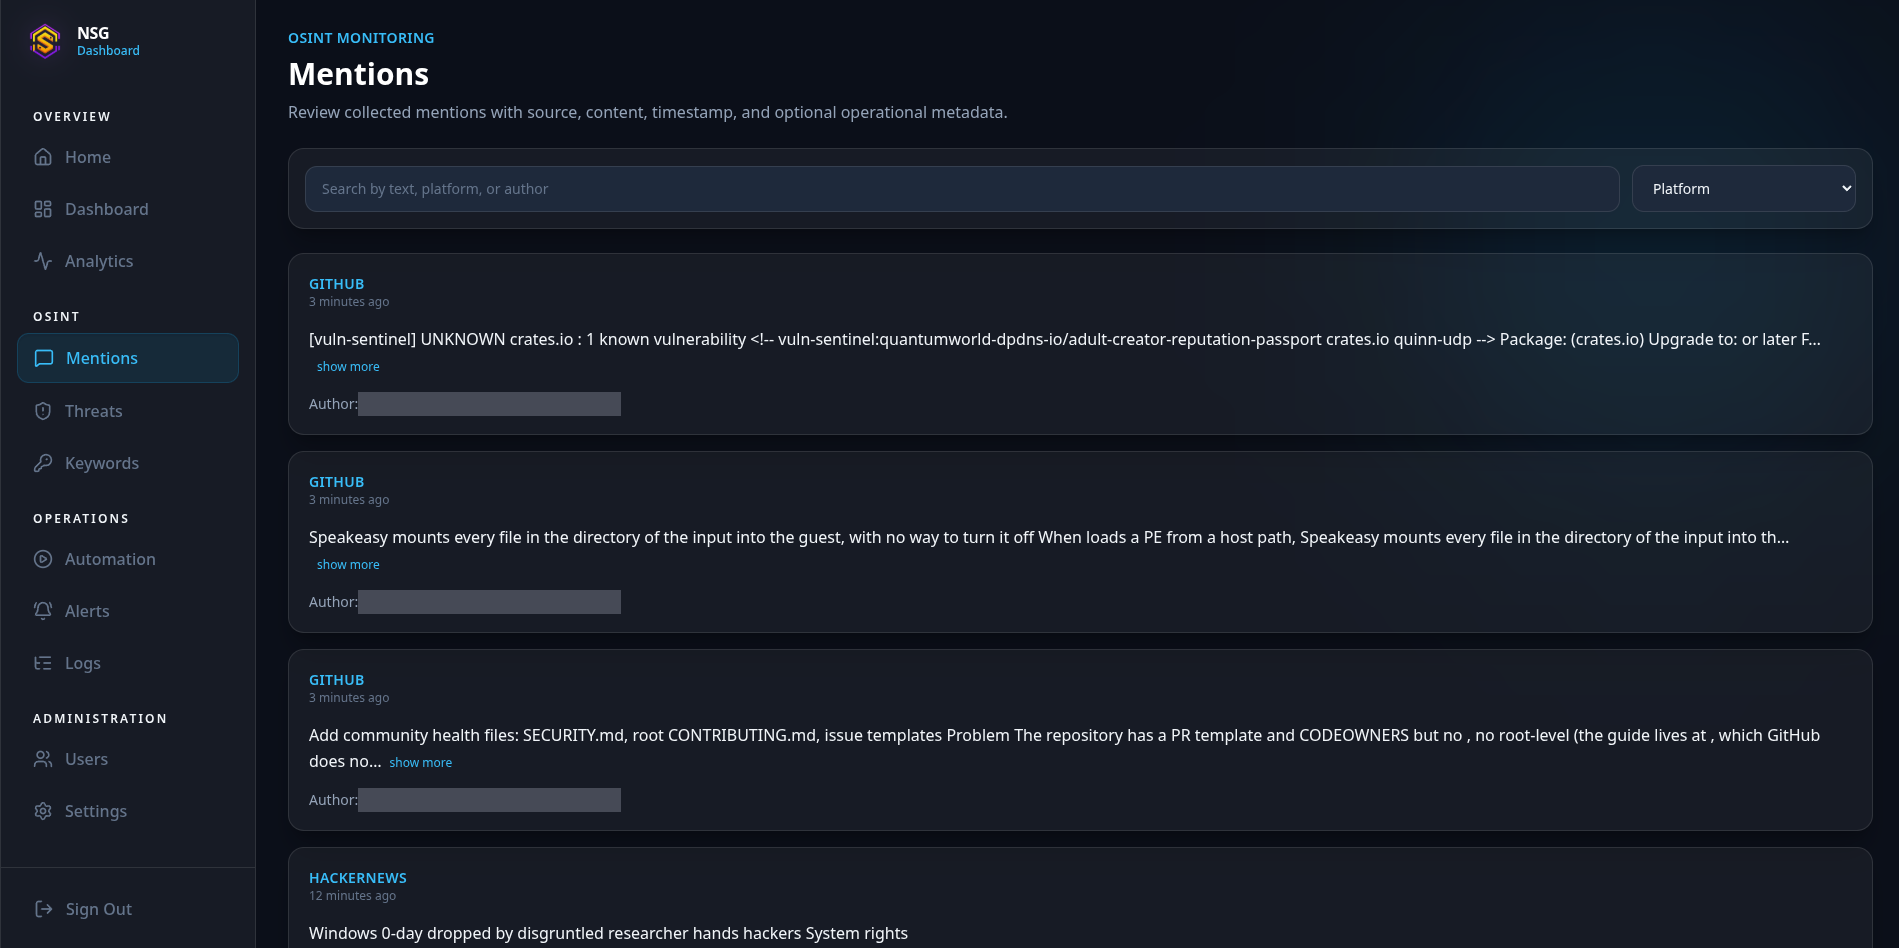
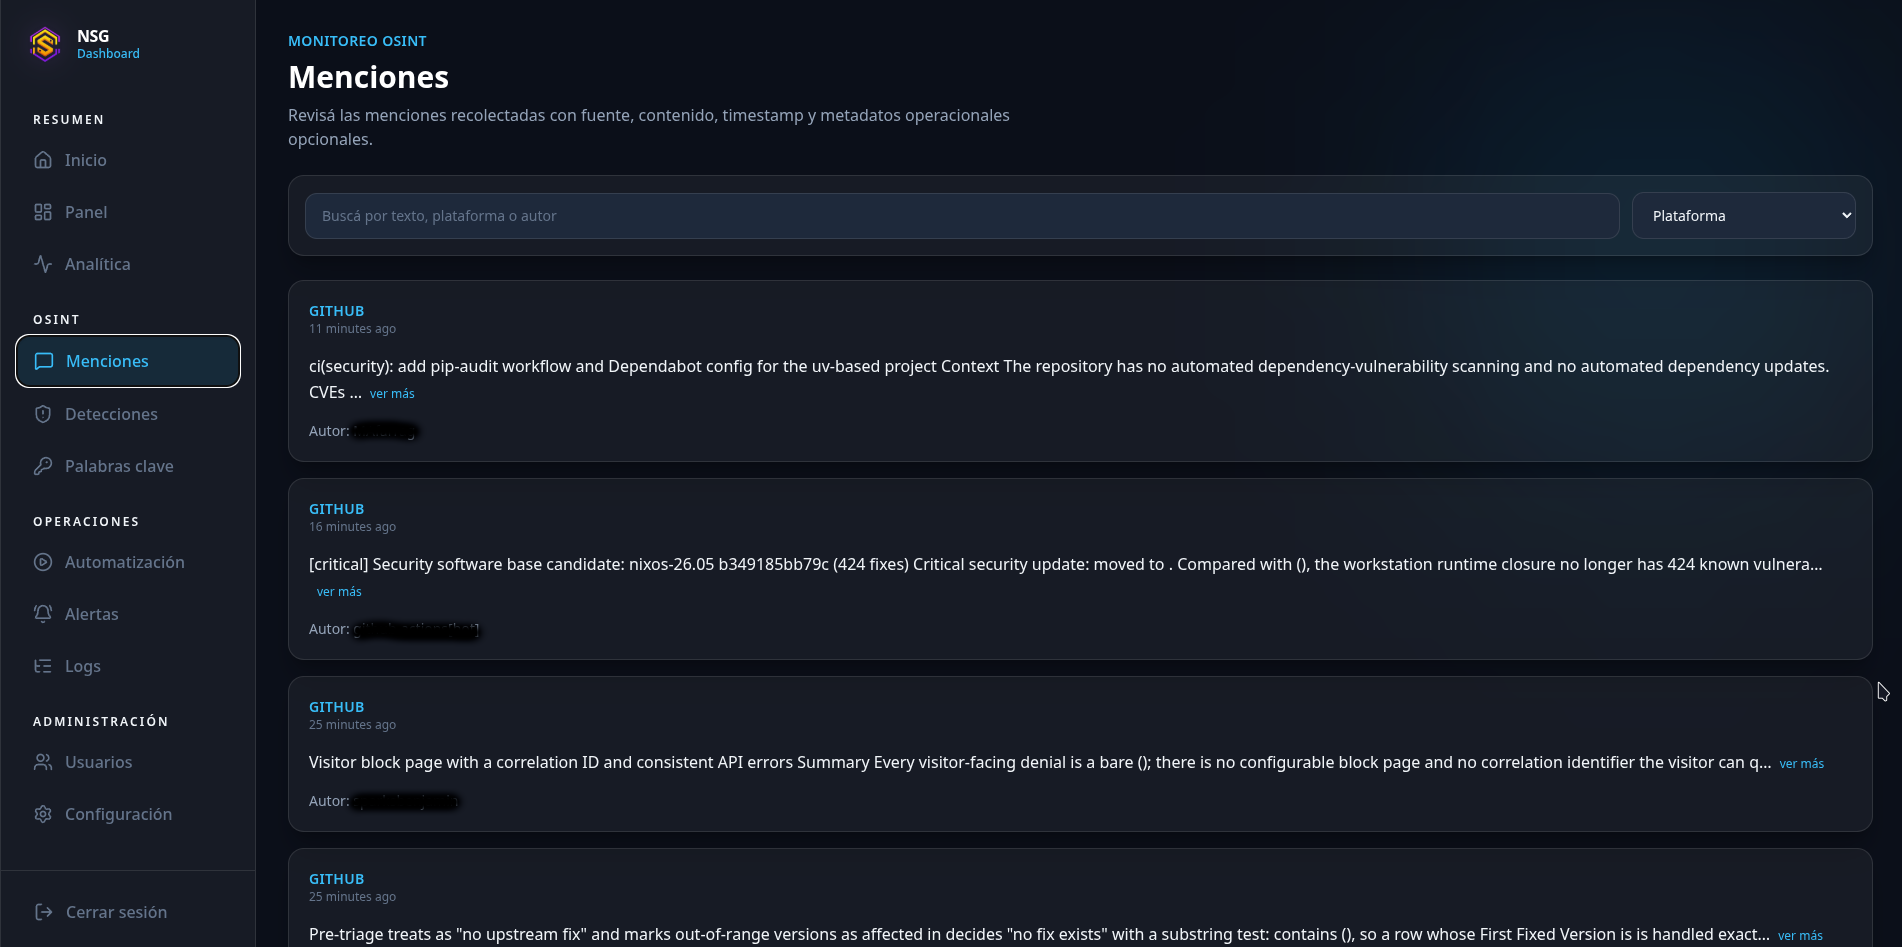
docs(audit): add REV77 A7 evidence (functional run, suites, captures)
Run, suite and the 12 Table 23 captures on develop 9f24de2. The
captures checklist describes the new images and records the REV77
changes in its own section.

diff --git a/nexus-security-group/audit/rev76_verificacion/capturas_checklist.md b/nexus-security-group/audit/rev76_verificacion/capturas_checklist.md
@@ -1,6 +1,6 @@
 # Corrida funcional y capturas de la Tabla 23
 
-Fecha: 12/11/2026. Base: rama `feat/corrida-funcional`, que sale de `develop` d2446d9.
+Fecha: 12/11/2026. Base: rama `feat/corrida-funcional`, que sale de `develop` d2446d9. Actualizado el 17/11/2026 para la REV77 (sección «Cambios REV77»).
 
 Este archivo explica cómo registrar la corrida funcional breve con `scripts/functional_run.sh` y enumera las 12 capturas de la Tabla 23 (vistas de la interfaz). La suite de pruebas, la corrida y las capturas se hacen sobre **el mismo commit**, con el sistema levantado, y los resultados se guardan en esta carpeta sin editarlos.
 
@@ -38,21 +38,32 @@ La columna «Matriz» remite a la fila de `matriz_conformidad.md`. Si la fila es
 
 | Fila | Vista | URL | Permiso en el prototipo | Estado previo necesario | Archivo | Matriz | Hecha | Observaciones |
 |---|---|---|---|---|---|---|---|---|
-| T23-01 | Ingreso | `http://localhost/login` | Pública | Sesión cerrada | `T23-01_ingreso.png` | R8B-67, Implementada | [x] | 13/11/2026. Sesión cerrada; formulario vacío (los campos muestran sus textos de ejemplo); sin datos personales. |
-| T23-02 | Inicio | `http://localhost/home` | Autenticado | Sesión iniciada | `T23-02_inicio.png` | R8B-68, Implementada | [x] | 13/11/2026. Sesión de `admin` (rol Admin, origen Bootstrap, 18 permisos); accesos rápidos a todas las vistas; sin datos personales. |
-| T23-03 | Panel | `http://localhost/dashboard` | `dashboard:read` | Al menos una ejecución terminada | `T23-03_panel.png` | R8B-69, Parcial | [x] | 13/11/2026, actualizado 14:02:39 (antes de E10). 369 detecciones, todas pendientes; 66 avisos sin reconocer; 10 términos activos; 9 registros de ejecución; actividad 6. Sin datos personales. |
-| T23-04 | Menciones | `http://localhost/mentions` | `mentions:read` | Menciones persistidas en la corrida | `T23-04_menciones.png` | R8B-70, Parcial | [x] | 13/11/2026. Menciones de GitHub y Hacker News de la corrida. **Editada:** se taparon los nombres de usuario del campo «Author» (datos personales según §7.8.4 y Tabla A3; minimización); el resto de la imagen no cambió. El texto de las menciones se muestra completo, como lo ve el analista durante la revisión (§7.8.4). El original se conserva fuera del repositorio. |
-| T23-05 | Detecciones | `http://localhost/threats` | `threats:read` | Al menos una detección, si la corrida la produjo | `T23-05_detecciones.png` | R8B-71, Implementada | [x] | 13/11/2026. Detecciones `general` de la corrida, todas `Pending`, con severidad, confianza, riesgo y mención relacionada; no muestra autoría. Sin datos personales. |
-| T23-06 | Avisos | `http://localhost/alerts` | `alerts:read` | Al menos un aviso, si la corrida lo produjo | `T23-06_avisos.png` | R8B-72, Parcial | [x] | 13/11/2026. Avisos `high` creados y enviados a las 14:00:56, sin reconocer, canales slack, email y #security-alerts. Figuran `Sent` aunque se generaron antes de definir `ALERT_EMAIL_TO` (correo rebotado; ver Notas de `escenarios.md`): es la limitación declarada de `delivery_status`. Sin datos personales. |
-| T23-07 | Términos | `http://localhost/keywords` | `keywords:read` | Los términos iniciales cargados | `T23-07_terminos.png` | R8B-73, Implementada | [x] | 13/11/2026. Los 10 términos iniciales activos, con categoría, prioridad, coincidencias y última coincidencia de la corrida. Sin datos personales. |
-| T23-08 | Automatización | `http://localhost/automation` | `workflows:read` | Al menos una ejecución registrada | `T23-08_automatizacion.png` | R8B-74, Implementada | [x] | 13/11/2026. Última ejecución en `success` (150 menciones recolectadas, 47 procesadas, 47 detecciones, 20 avisos) e historial; la fila con 41 detecciones y 15 avisos es la de E08. La duración figura en 0 s en todas: `started_at` se graba al final del flujo (hallazgo para B7b). Sin datos personales. |
-| T23-09 | Registros | `http://localhost/logs` | `logs:read` | Ejecuciones de la corrida registradas | `T23-09_registros.png` | R8B-75, Parcial | [x] | 13/11/2026. Pestaña «Executions»: ejecuciones de la corrida en `success` con contadores, horas y duración 0 s (inicio y fin iguales; ver T23-08). La de las 13:48:30 es E08 (41 detecciones y 15 avisos informados, 0 guardados). No muestra estado por fuente (limitación declarada). Sin datos personales; la pestaña «User Activity» no se capturó. |
-| T23-10 | Indicadores | `http://localhost/analytics` | `metrics:read` | Datos dentro de la ventana por defecto (30 días) | `T23-10_indicadores.png` | R8B-76, Parcial | [x] | 13/11/2026. Vista desplazada hacia abajo (no se ve el título): 410 menciones, 66 avisos, 369 detecciones, sentimiento medio 0,05; menciones en el tiempo y sentimiento desde el 14/10 (fecha de publicación) y distribución por plataforma (GitHub 75 %, Hacker News 20 %, Exploit-DB 5 %). Sin datos personales. |
-| T23-11 | Usuarios | `http://localhost/users` | `users:read` | Al menos el usuario administrador | `T23-11_usuarios.png` | R8B-77, Implementada | [x] | 13/11/2026. El directorio dice «No users registered yet.»: el administrador de la sesión es el de arranque (origen Bootstrap, definido por configuración) y no figura como usuario registrado. No se cumple el estado previo «al menos el usuario administrador»; se toma igual, sin cargar datos (ver §3). Roles de sistema Admin y Analyst, sin roles propios. Sin datos personales. |
-| T23-12 | Preferencias | `http://localhost/settings` | Autenticado | Sesión iniciada | `T23-12_preferencias.png` | R8B-78, Implementada | [x] | 13/11/2026, 14:31. Perfil `admin`, cambio de contraseña con los campos vacíos, tema oscuro e idioma inglés. Sin datos personales. |
+| T23-01 | Ingreso | `http://localhost/login` | Pública | Sesión cerrada | `T23-01_ingreso.png` | R8B-67, Implementada | [x] | 17/11/2026, 13:27 (REV77). Sesión cerrada; formulario vacío (los campos muestran sus textos de ejemplo), en español; sin datos personales. En el borde inferior asoman unos píxeles de la barra del escritorio. |
+| T23-02 | Inicio | `http://localhost/home` | Autenticado | Sesión iniciada | `T23-02_inicio.png` | R8B-68, Implementada | [x] | 17/11/2026 (REV77). Sesión de `administrador` (rol Admin, origen «Base de datos», 18 permisos); accesos rápidos a todas las vistas. Sin datos personales. |
+| T23-03 | Panel | `http://localhost/dashboard` | `dashboard:read` | Al menos una ejecución terminada | `T23-03_panel.png` | R8B-69, Parcial | [x] | 17/11/2026 (REV77). 3902 detecciones, 3900 pendientes; 551 avisos, 549 sin reconocer; 10 palabras clave activas; 109 registros de ejecución; actividad 38. Sin datos personales. |
+| T23-04 | Menciones | `http://localhost/mentions` | `mentions:read` | Menciones persistidas en la corrida | `T23-04_menciones.png` | R8B-70, Parcial | [x] | 17/11/2026 (REV77). Menciones de la corrida. **Editada:** se taparon los nombres de usuario de la columna de autor (datos personales según §7.8.4 y Tabla A3; minimización); el resto de la imagen no cambió. El texto de las menciones se muestra completo, como lo ve el analista durante la revisión (§7.8.4). El original sin editar del 17/11 no se conservó; el de `originales/` es el de la REV76 (13/11). |
+| T23-05 | Detecciones | `http://localhost/threats` | `threats:read` | Al menos una detección, si la corrida la produjo | `T23-05_detecciones.png` | R8B-71, Implementada | [x] | 17/11/2026 (REV77). Detecciones `general` («Otro»), todas «Pendiente», con severidad, puntaje normalizado, puntaje de riesgo, evidencia y mención relacionada (github); no muestra autoría. La hora relativa («10 minutes ago») no está traducida. Sin datos personales. |
+| T23-06 | Avisos | `http://localhost/alerts` | `alerts:read` | Al menos un aviso, si la corrida lo produjo | `T23-06_avisos.png` | R8B-72, Parcial | [x] | 17/11/2026 (REV77). Avisos «Señal high para revisión» (ALTA); los visibles se crearon y enviaron entre las 11:30:53 y las 11:45:52, sin reconocer, canales slack, email y #security-alerts. Figuran «Enviada»: es la limitación declarada de `delivery_status`. Sin datos personales. |
+| T23-07 | Términos | `http://localhost/keywords` | `keywords:read` | Los términos iniciales cargados | `T23-07_terminos.png` | R8B-73, Implementada | [x] | 17/11/2026 (REV77). Los 10 términos activos, con categoría, prioridad, coincidencias y última coincidencia (la más reciente, 11:45:46). Las categorías se muestran con su valor en la base (critical, high, medium). Sin datos personales. |
+| T23-08 | Automatización | `http://localhost/automation` | `workflows:read` | Al menos una ejecución registrada | `T23-08_automatizacion.png` | R8B-74, Implementada | [x] | 17/11/2026 (REV77). Última ejecución en «Éxito» (150 menciones recolectadas, 30 procesadas, 30 detecciones, 1 aviso) e historial. La duración sigue en 0 s, como en la REV76. Sin datos personales. |
+| T23-09 | Registros | `http://localhost/logs` | `logs:read` | Ejecuciones de la corrida registradas | `T23-09_registros.png` | R8B-75, Parcial | [x] | 17/11/2026 (REV77). Pestaña «Ejecuciones»: cinco ejecuciones exitosas, de las 11:01:00 a las 11:45:52, con contadores, horas y duración 0 s. No muestra estado por fuente (limitación declarada). La pestaña «Actividad de usuario» no se capturó. Sin datos personales. |
+| T23-10 | Indicadores | `http://localhost/analytics` | `metrics:read` | Datos dentro de la ventana por defecto (30 días) | `T23-10_indicadores.png` | R8B-76, Parcial | [x] | 17/11/2026, 13:17 (REV77). Vista completa con el título: 4154 menciones, 596 avisos, 4113 detecciones, sentimiento promedio 0,05; menciones en el tiempo desde el 18/10, tendencias de sentimiento y distribución por plataforma (GitHub 93 %; el gráfico queda cortado abajo). Incluye las ejecuciones posteriores al log de la corrida (ver «Cambios REV77»). Sin datos personales. |
+| T23-11 | Usuarios | `http://localhost/users` | `users:read` | Al menos el usuario administrador | `T23-11_usuarios.png` | R8B-77, Implementada | [x] | 17/11/2026, 13:18 (REV77). El directorio muestra a `administrador` (Admin, activo, creado el 17/11, «Usuario actual»): se cumple el estado previo. Roles de sistema Admin y Analyst (sus descripciones, en inglés, vienen de la base), sin roles propios. Sin datos personales. |
+| T23-12 | Preferencias | `http://localhost/settings` | Autenticado | Sesión iniciada | `T23-12_preferencias.png` | R8B-78, Implementada | [x] | 17/11/2026, 13:17 (REV77). Perfil `administrador` (admin), cambio de contraseña con los campos vacíos, tema oscuro e idioma español. Sin datos personales. |
 
 ## 4. Al terminar
 
 - [x] En esta carpeta están la salida de la suite, el log de la corrida y las 12 capturas. (13/11/2026: `suite_20261113-161324.log`, `corrida_funcional_20261113-131408.log` e `imagenes/T23-01` a `T23-12`; los escenarios manuales, en `manuales/`.)
 - [x] El commit del log coincide con el de la suite y con el que estaba al tomar las capturas. (`b0c76dd` en los tres; los cambios posteriores están solo en `audit/`.)
 - [x] Ningún archivo se editó a mano, salvo `T23-04_menciones.png`: se taparon los nombres de usuario por minimización, y la edición se declara en su fila. Los logs y los resultados de `manuales/` no se editaron.
+
+## Cambios REV77
+
+Fecha: 17/11/2026. Se repitieron la corrida, la suite y las 12 capturas sobre `develop` `9f24de2`, con el sistema levantado. Las versiones de la REV76 (13/11, `b0c76dd`) quedan en el historial de git (commit `0749dba`).
+
+- **Evidencia.** `audit/rev77_verificacion/corrida_funcional_20261117-120357.log` (ventana desde las 11:30:00-03:00: 4 ejecuciones exitosas, 129 menciones de GitHub, 17 avisos enviados, ningún paso con `!!`), `suite_20261117-120454.log` y `suite_frontend_20261117-120507.log`. Los tres registran el commit `9f24de2`; los únicos cambios sin commitear eran las capturas.
+- **Suite.** Escenarios 14 de 14, flujo 28 de 28, backend 370 aprobadas y 1 fallida (`test_no_raw_sql_contract`, que ya fallaba antes de la REV77), frontend 222 de 222. `correr_suite.sh` termina con código 1 por esa falla.
+- **Idioma.** Las capturas de la REV77 están en español; las de la REV76, en inglés.
+- **Usuario.** La sesión es la de `administrador`, un usuario de la base. En la REV76 era el administrador de arranque, que desde B18 (`3164216`) deja de valer cuando existe un usuario en la base.
+- **Horarios.** T23-02 a T23-09 se tomaron entre las 11:55 y las 12:02, dentro de la ventana del log. T23-10 a T23-12 se repitieron a las 13:17–13:18 porque las primeras mostraban la notificación de la herramienta de captura con una ruta local, y T23-01 se tomó a las 13:27 para que también quedara en español; T23-10 a T23-12 incluyen las ejecuciones programadas posteriores al log, sobre el mismo commit.
+- **Primera ejecución de la ventana.** La de las 11:30:54 corrió antes de que se reiniciara n8n (11:31:51) y pudo usar el flujo anterior a la reimportación. Las diferencias de esa versión están solo en el disparador manual; la de las 11:40:55 es la que se disparó con el secreto.
